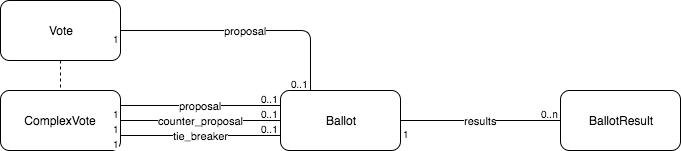
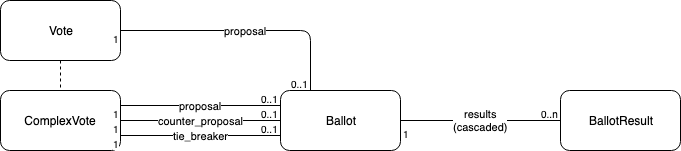
Speeds up clearing vote results

diff --git a/onegov/ballot/tests/models/test_proporz_election.py b/onegov/ballot/tests/models/test_proporz_election.py
@@ -1244,14 +1244,14 @@ def test_proporz_election_clear_results(session):
     assert election.party_results.all() == []
     assert election.panachage_results.all() == []
 
-    assert session.query(Candidate).count() == 0
-    assert session.query(CandidateResult).count() == 0
-    assert session.query(ElectionResult).count() == 0
-    assert session.query(List).count() == 0
-    assert session.query(ListConnection).count() == 0
-    assert session.query(ListResult).count() == 0
-    assert session.query(PanachageResult).count() == 0
-    assert session.query(PartyResult).count() == 0
+    assert session.query(Candidate).first() is None
+    assert session.query(CandidateResult).first() is None
+    assert session.query(ElectionResult).first() is None
+    assert session.query(List).first() is None
+    assert session.query(ListConnection).first() is None
+    assert session.query(ListResult).first() is None
+    assert session.query(PanachageResult).first() is None
+    assert session.query(PartyResult).first() is None
 
 
 def test_proporz_election_rename(session):

diff --git a/onegov/ballot/tests/models/test_election.py b/onegov/ballot/tests/models/test_election.py
@@ -765,9 +765,9 @@ def test_election_clear_results(session):
     assert election.candidates.all() == []
     assert election.results.all() == []
 
-    assert session.query(Candidate).count() == 0
-    assert session.query(CandidateResult).count() == 0
-    assert session.query(ElectionResult).count() == 0
+    assert session.query(Candidate).first() is None
+    assert session.query(CandidateResult).first() is None
+    assert session.query(ElectionResult).first() is None
 
 
 def test_election_has_results(session):

diff --git a/onegov/ballot/models/vote/ballot_result.py b/onegov/ballot/models/vote/ballot_result.py
@@ -54,4 +54,8 @@ class BallotResult(Base, TimestampMixin, DerivedAttributesMixin,
     eligible_voters = Column(Integer, nullable=False, default=lambda: 0)
 
     #: the ballot this result belongs to
-    ballot_id = Column(UUID, ForeignKey('ballots.id'), nullable=False)
+    ballot_id = Column(
+        UUID,
+        ForeignKey('ballots.id', ondelete='CASCADE'),
+        nullable=False
+    )

diff --git a/onegov/ballot/upgrade.py b/onegov/ballot/upgrade.py
@@ -462,6 +462,7 @@ def add_delete_contraints(context):
         ('list_results', 'list', False, True),
         # ('lists', 'connection', False, True),  # see below
         ('lists', 'election', True, True),
+        ('ballot_results', 'ballot', False, True),
     ):
         update = 'ON UPDATE CASCADE' if update else ''
         delete = 'ON DELETE CASCADE' if delete else ''

diff --git a/onegov/ballot/models/vote/ballot.py b/onegov/ballot/models/vote/ballot.py
@@ -188,5 +188,6 @@ class Ballot(Base, TimestampMixin, TitleTranslationsMixin,
         """ Clear all the results. """
 
         session = object_session(self)
-        for result in self.results:
-            session.delete(result)
+        session.query(BallotResult).filter(
+            BallotResult.ballot_id == self.id
+        ).delete()

diff --git a/onegov/ballot/tests/models/test_vote.py b/onegov/ballot/tests/models/test_vote.py
@@ -979,6 +979,7 @@ def test_clear_ballot(session):
     vote.proposal.clear_results()
 
     assert vote.proposal.results.first() is None
+    assert session.query(BallotResult).first() is None
 
 
 def test_clear_vote(session):

diff --git a/HISTORY.rst b/HISTORY.rst
@@ -1,7 +1,10 @@
 Changelog
 ---------
 
-- Speeds up clearing election results.
+- Adds ON DELETE CASCADE constraints to various models.
+  [msom]
+
+- Improves the performance of deleting election and vote results.
   [msom]
 
 - Presets ballot ids.
